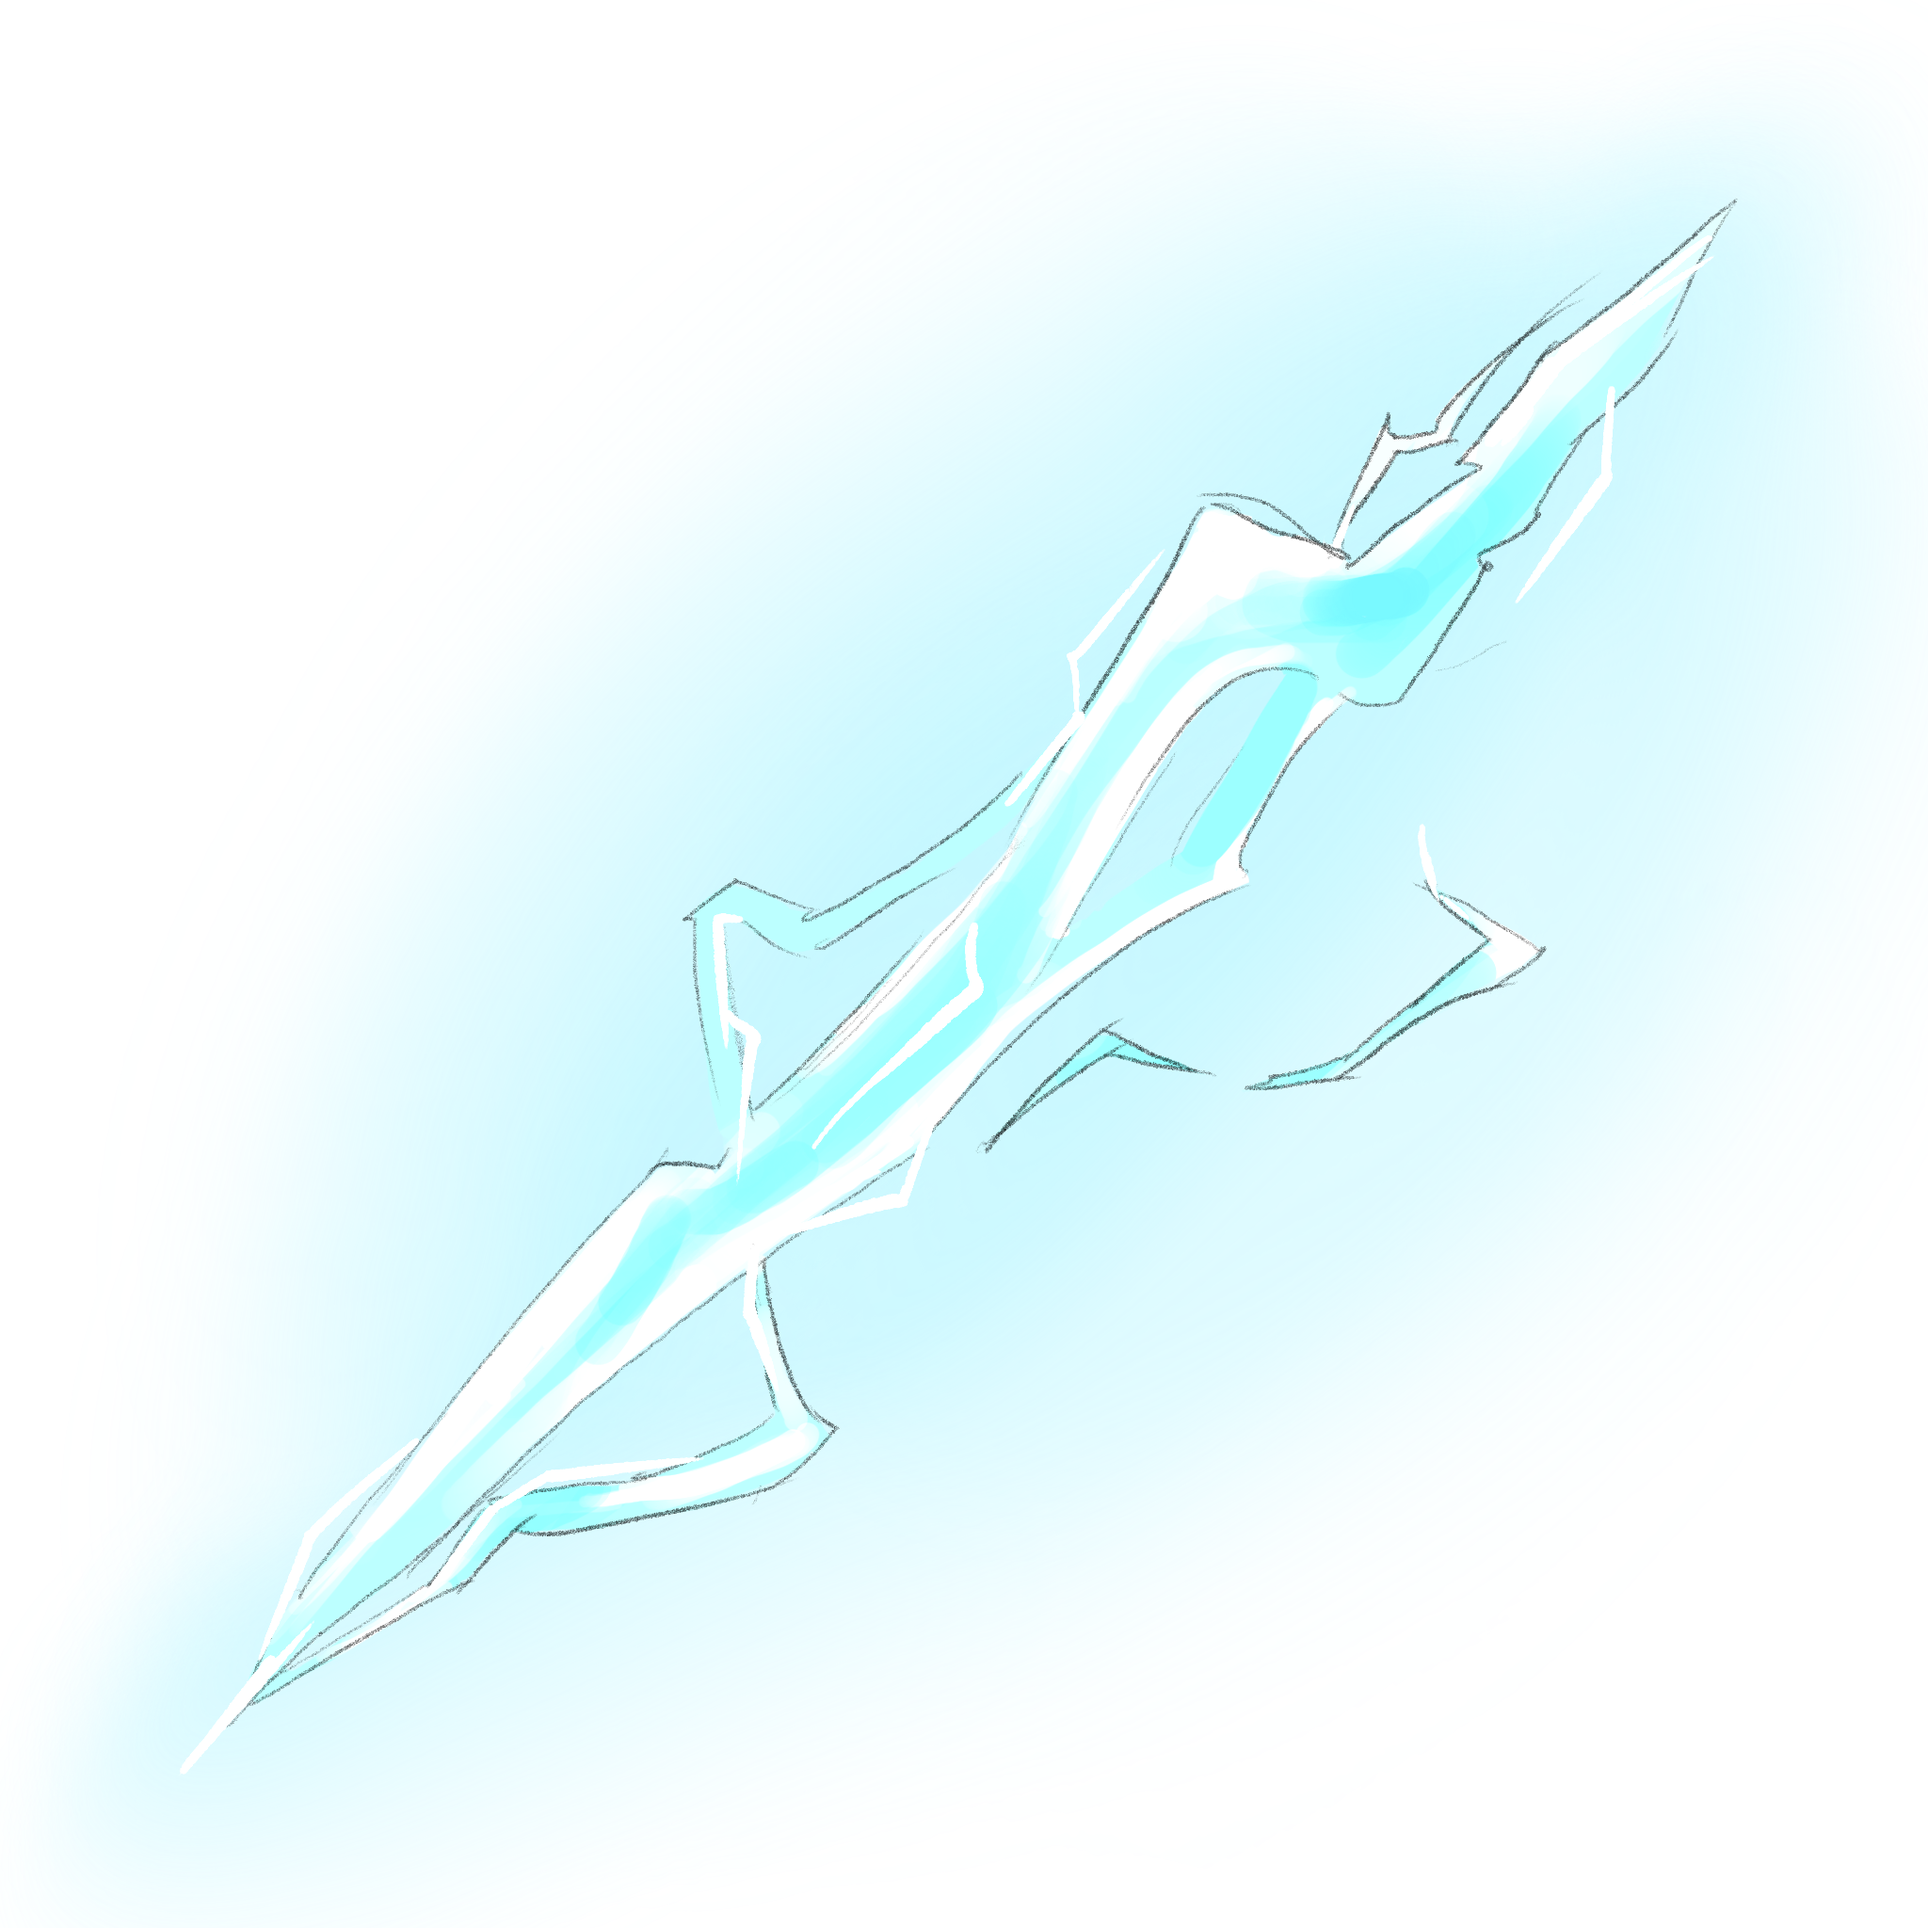
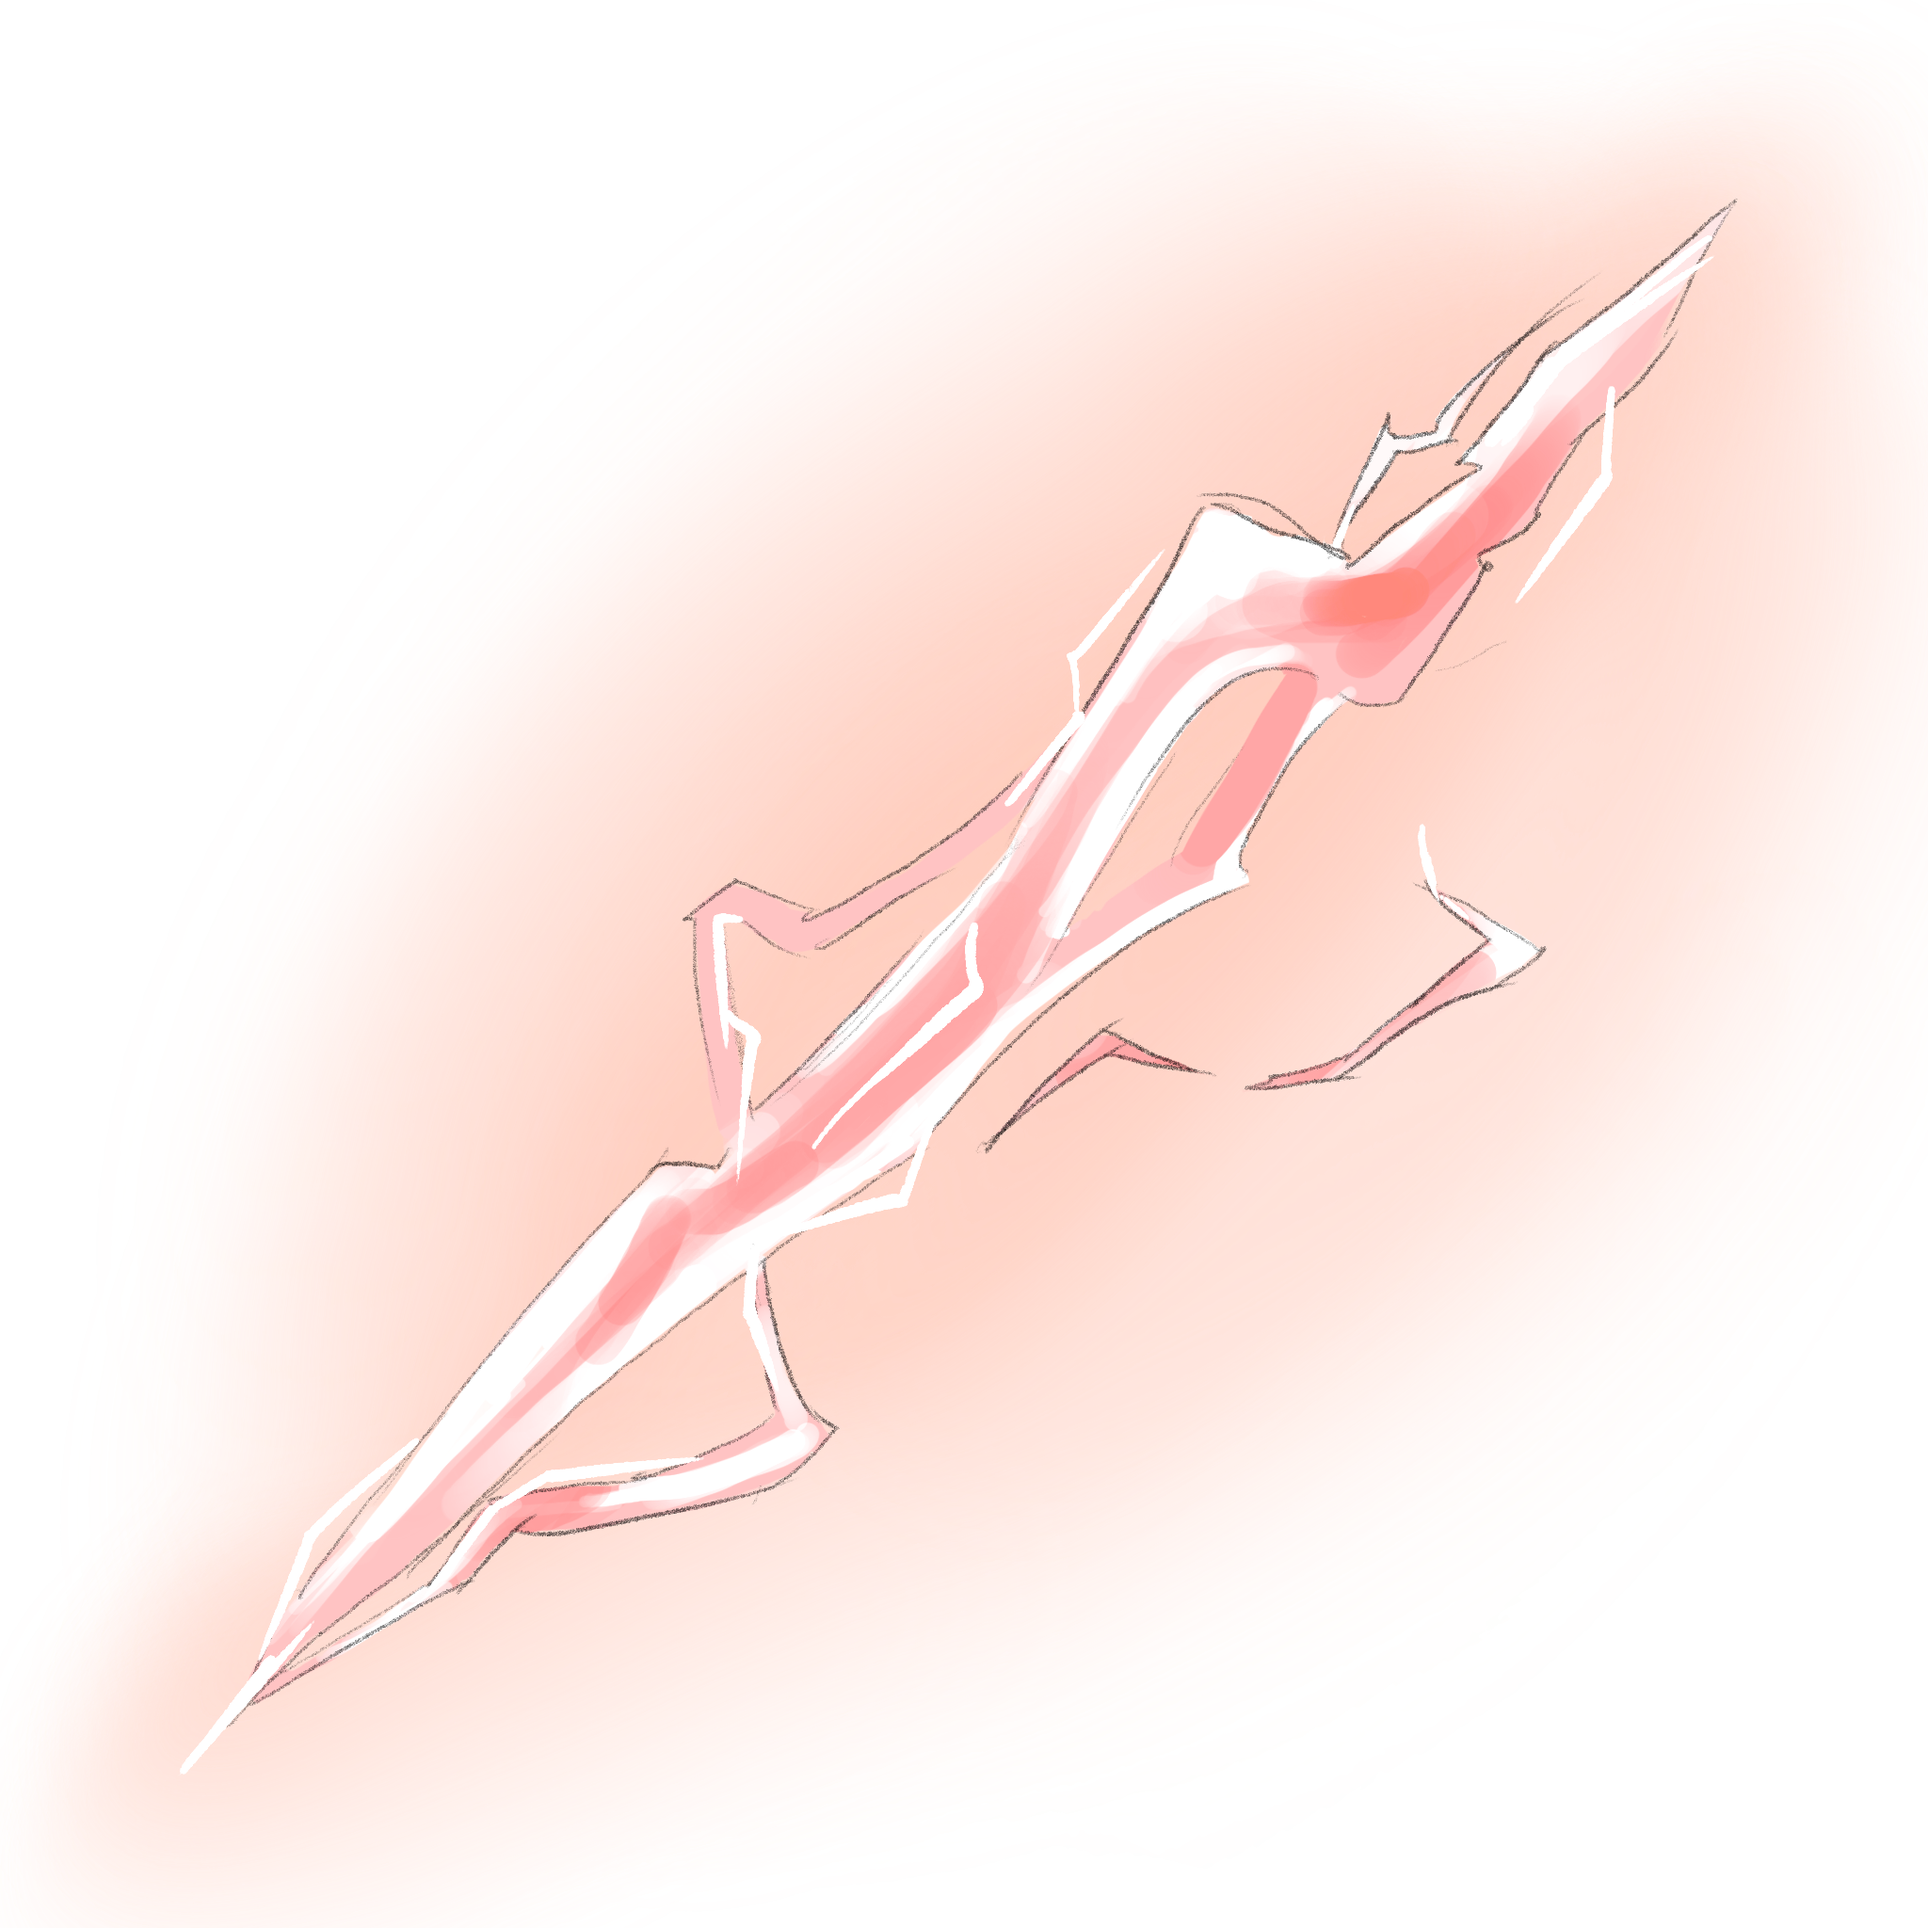
style(waiting-page): modifying waiting page and character creation ui

diff --git a/client/src/app/pages/waiting-page/waiting-page.component.scss b/client/src/app/pages/waiting-page/waiting-page.component.scss
@@ -86,6 +86,14 @@ app-lobby-player {
 
 .disabled {
     display: none;
+    cursor: not-allowed;
+}
+
+.invisible {
+    display: none;
+    visibility: hidden; 
+    pointer-events: none; 
+    opacity: 0; 
 }
 
 #lock {
@@ -105,6 +113,10 @@ app-lobby-player {
     text-align: center;
     font-family: papyrus;
     font-weight: 900;
+}
+
+.add-bot-text {
+    font-size: 1.25rem;
 }
 
 .add-bot-button {
@@ -210,6 +222,10 @@ input[type='checkbox']:disabled + .slider {
     margin-right: 1rem;
 }
 
+.chat {
+    transform: scale(0.9);
+}
+
 app-lobby-player {
     height: 27.5rem;
     flex: 0 0 15.5%;
@@ -243,10 +259,9 @@ app-lobby-player {
     background: linear-gradient(to right, rgb(15, 49, 71), rgb(36, 115, 152) 33%, rgb(75, 152, 185) 67%, rgb(15, 49, 71));
     font-size: 1rem;
     border-radius: 2rem;
-    width: 20rem;
+    width: 15rem;
     height: 3rem;
     line-height: 2rem; 
-    margin-top: -50rem;
     align-self: center;
     border: 1px solid gray;
 }
@@ -274,9 +289,6 @@ app-lobby-player {
     display: block;
 }
 
-.disabled {
-    cursor: not-allowed;
-}
 
 .add-virtual-player-container {
     position: fixed;
@@ -323,15 +335,31 @@ app-lobby-player {
     flex: 1;
     height: 100%;
     width: 50%;
-    background-image: linear-gradient(to top, rgb(76, 67, 67), rgb(54, 50, 50) 33%, rgb(39, 34, 34) 67%, rgb(30, 28, 28));
+    //background-image: linear-gradient(to top, rgb(76, 67, 67), rgb(54, 50, 50) 33%, rgb(39, 34, 34) 67%, rgb(30, 28, 28));
     border-radius: 3rem;
     display: flex;
     flex-direction: column;
     transition: all 0.3s ease;
 }
 
+.aggressive {
+    background-image: linear-gradient(to top, rgb(83, 42, 42), rgb(57, 30, 30) 33%, rgb(45, 19, 19) 67%, rgb(33, 18, 18));
+}
+
+.defensive {
+    background-image: linear-gradient(to top, rgb(42, 51, 83), rgb(30, 34, 57) 33%, rgb(19, 22, 45) 67%, rgb(18, 23, 33));
+}
+
+.aggressive:hover {
+    background-image: linear-gradient(to top, rgb(80, 18, 18), rgb(91, 18, 18) 33%, rgb(107, 21, 21) 67%, rgb(54, 7, 7));
+}
+
+.defensive:hover {
+    background-image: linear-gradient(to top, rgb(21, 35, 83), rgb(20, 29, 80) 33%, rgb(30, 40, 120) 67%, rgb(10, 26, 57));
+}
+
 .bot-options > *:hover {
-    background-image: linear-gradient(to top, rgb(107, 95, 95), rgb(84, 78, 78) 33%, rgb(69, 61, 61) 67%, rgb(57, 53, 53));
+    //background-image: linear-gradient(to top, rgb(107, 95, 95), rgb(84, 78, 78) 33%, rgb(69, 61, 61) 67%, rgb(57, 53, 53));
     box-shadow: 0 0 15px rgba(255, 249, 144, 0.8);
 }
 
@@ -387,4 +415,37 @@ app-lobby-player {
 .close-button:hover {
     color: rgb(255, 60, 60);
     transform: scale(1.1);
+}
+
+.elem-content {
+    display: flex;
+    flex-direction: row;
+    margin: 0;
+    font-family: 'Franklin Gothic Medium';
+    font-size: 2.7rem;
+    letter-spacing: 0.2rem;
+    text-align: center; 
+    justify-content: center;
+    align-self: center;
+    align-items: center;
+}
+
+.elem-container {
+    display: flex;
+    flex-direction: column;
+    text-align: center; 
+    margin-top: 0.5rem;
+    width: 15rem;
+}
+
+.elem-title {
+    font-size: 1rem;
+    font-family: Papyrus;
+    text-align: center; 
+    margin: 0;
+}
+
+.condensed-txt {
+    font-size: 2rem;
+    letter-spacing: 0rem;
 }

diff --git a/client/src/app/pages/waiting-page/waiting-page.component.html b/client/src/app/pages/waiting-page/waiting-page.component.html
@@ -7,7 +7,7 @@
             <p>Choisissez le profil du joueur virtuel</p>
         </div>
         <div class="bot-options">
-            <div class="passive" (click)="addBot(false)"> 
+            <div class="defensive" (click)="addBot(false)"> 
                 <p class="profile-title">Défensif</p>
                 <img class="bot-profile-img" draggable="false" src="./assets/images/icones/defensive.png" alt="passive-img">
                 <div class="profile-description">
@@ -31,14 +31,18 @@
     <div class="disabled-overlay"></div>
     <header>
         @if(chosenGame){
-        <h3>Nom de la partie: {{ chosenGame.name }}</h3>
-        }
-        <h3>Code d'accès: {{ accessCode }}</h3>
-        @if(isAdmin){
-            <div class="add-bot" (click)="toggleBotProfileVisibility()">
-                <p>Ajouter un joueur virtuel</p>
+            <div class="elem-container">
+                <p class="elem-title">Nom de la carte:</p>
+                <h3 class="elem-content condensed-txt"> {{ chosenGame.name }}</h3>
             </div>
         }
+        <div class="elem-container">
+            <p class="elem-title">Code d'accès:</p>
+            <h3 class="elem-content"> {{ accessCode }}</h3>
+        </div>
+        <div class="add-bot" (click)="toggleBotProfileVisibility()" [ngClass]="{ invisible: !isAdmin }">
+            <p class="add-bot-text">Ajouter un joueur virtuel</p>
+        </div>
     </header>
     <main>
         <div id="players-container">
@@ -50,7 +54,9 @@
     <footer>
         @if(!isBotProfileVisible){
         <div id="footer-container">
-            <app-chat-box [isToggleable]="false"></app-chat-box>
+            <div class="chat">
+                <app-chat-box [isToggleable]="false"></app-chat-box>
+            </div>
             <div id="start-container">
                 <button
                     id="start"

diff --git a/client/src/app/components/character-creator/character-creator.component.scss b/client/src/app/components/character-creator/character-creator.component.scss
@@ -174,14 +174,31 @@
 }
 
 .name-container input {
-    background-color: bisque;
-    width: 35%;
-    height: 100%;
-    color: black;
-    font-family: 'papyrus';
-    font-size: 20px;
+    // background-color: bisque;
+    // width: 35%;
+    // height: 100%;
+    // color: black;
+    // font-family: 'papyrus';
+    // font-size: 20px;
+    // text-align: center;
+
+    background: none;
+    color: white;
+    border: 0.075rem solid rgb(255, 249, 144);
+    border-radius: 0.75rem;
+    padding: 0.5rem;
+    margin: 0;
+    font-family: Papyrus;
+    font-weight: bold;
+    font-size: 1.5rem;
+    width: 50%;
     text-align: center;
 }
+
+input::placeholder {
+    color: rgb(255, 249, 144);
+    opacity: 0.5; 
+  }
 
 .image-wrapper {
     width: 100%;

diff --git a/client/src/app/components/waiting-page/lobby-player/lobby-player.component.html b/client/src/app/components/waiting-page/lobby-player/lobby-player.component.html
@@ -12,8 +12,11 @@
         </div>
         }
         {{ lobbyPlayer.name }}
-        @if(lobbyPlayer.status === Status.Bot){
+        @if(this.lobbyPlayer.behavior === Behavior.Defensive){
             <img class="bot-logo" src="./assets/images/icones/dark-bot.png" />
+        }
+        @else if (this.lobbyPlayer.behavior === Behavior.Aggressive) {
+            <img class="bot-logo" src="./assets/images/icones/red-bot.png" />
         }
     </div>
     <img [ngClass]="['player-img', getBehaviorClass()]" [src]="lobbyPlayer.avatar?.src" alt="{{ lobbyPlayer.name }}-avatar" />

diff --git a/client/src/app/components/waiting-page/lobby-player/lobby-player.component.ts b/client/src/app/components/waiting-page/lobby-player/lobby-player.component.ts
@@ -16,6 +16,7 @@ export class LobbyPlayerComponent {
     @Input() lobbyPlayer: Player;
     @Input() isPlayerAdmin: boolean;
     public Status = Status;
+    public Behavior = Behavior;
     constructor(
         private dialog: MatDialog,
         private socketCommunicationService: SocketCommunicationService,
@@ -45,10 +46,6 @@ export class LobbyPlayerComponent {
         }
     }
 
-    // temporary
-    getBehavior(){
-        return this.lobbyPlayer.behavior;
-    }
 
     isAdmin(){
         return this.lobbyPlayer.status === Status.Admin;

diff --git a/client/src/app/components/character-creator/character-creator.component.html b/client/src/app/components/character-creator/character-creator.component.html
@@ -32,7 +32,7 @@
                 @if(clickedAvatar) {
                 <img class="selected-avatar" [src]="clickedAvatar.src" />
                 } @else {
-                <div class="no-avatar"></div>
+                <img class="no-avatar" [src]="'./assets/images/characters/default-avatar.png'" alt="default-avatar">
                 }
                 <img class="decoration" [src]="'./assets/images/leaves/leafR.webp'" />
             </div>
